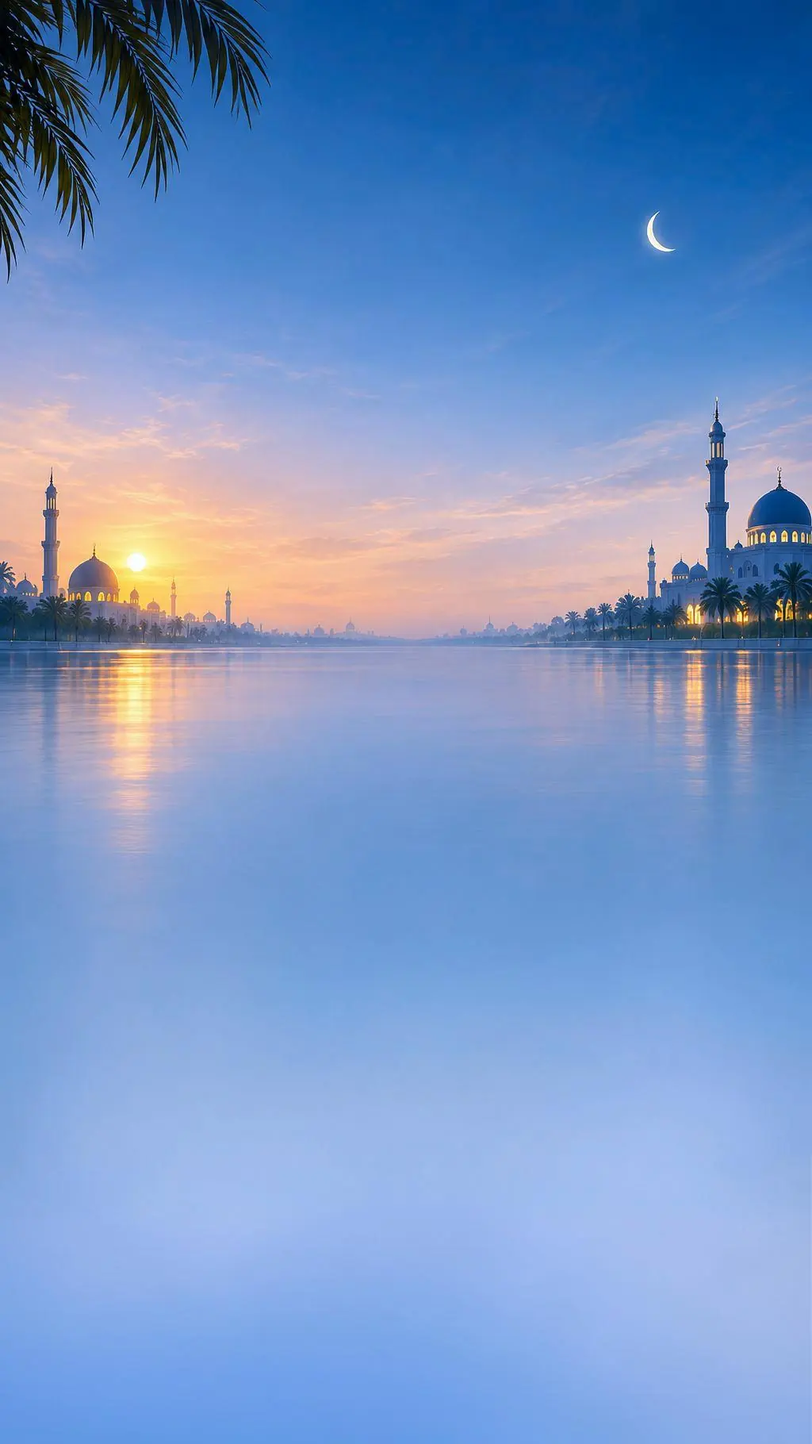
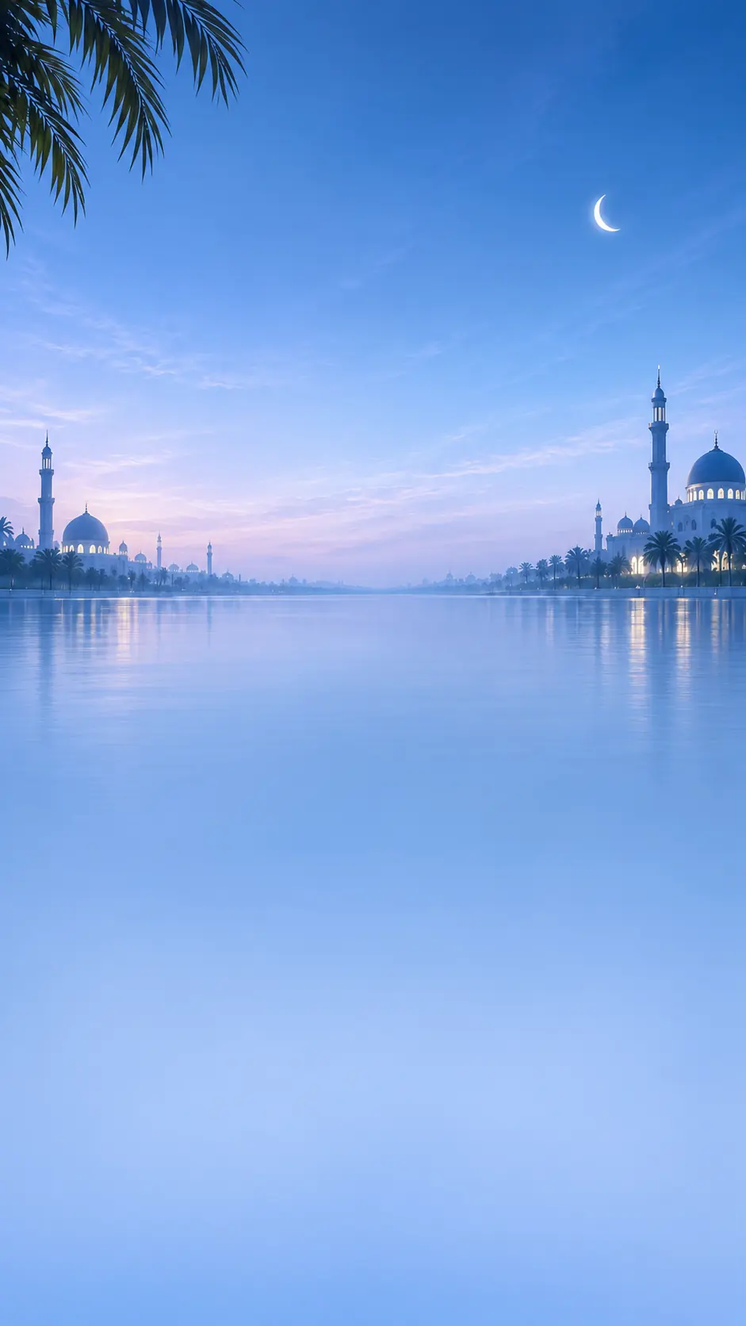
Masbaha: the lake-and-mosques scene in every theme
Dusk for light (replaces the sunset), night for dark and golden for
sepia (images/masbaha-scene-{light,dark,sepia}.webp, about 40 KB each,
precached). The dotted texture is turned off over the scenes.

diff --git a/sw.js b/sw.js
@@ -1,4 +1,4 @@
-const CACHE_NAME = "zad-muslim-v145"; // v145: masbaha — ring fills clockwise; the dhikr in a gold cartouche (drawn to size) with previous / next arrows, swipe and a favourites bookmark (favourites first in the picker); frosted patterned disc in the ring; light theme on a lake-and-mosques scene (images/masbaha-scene-light.webp); tasbih mark and ornament on the title; leaf icon for power saving; the virtue title as a tab on the card; v144: masbaha redesign — the dhikr shown in full above the counter (tap to change), a 33-bead misbaha ring with the imam bead and rounds, the whole counter area counts a tap, labelled actions (undo, target, reset, power saving), a target sheet (3 / 7 / 10 / 33 / 99 / 100 / 1000 or any number), the virtue with its source on its own line, keyboard counting and screen-reader announcements, settings regrouped (statistics most-said first, folded); undo also corrects the weekly stats (DhikrStats.untap); v143: masbaha — power-saving mode: the exit ring appears under the finger only on a held press (grows, turns red), a held or exiting press no longer counts; the virtue card sits higher above the bottom edge; top bar and toast kept 14 px below the notch / status bar; v142: masbaha — light, dark and sepia themes (follows the app theme, selector in settings), dhikr picker as a searchable grouped sheet like the other menus, 8 more adhkar with their virtue and source, settings restyled like the other pages; v141: audio — saved mark is a floppy disk, shown on saved surahs too (was «محفوظ» text there); v140: audio — a saved recitation opens from «المصاحف المحفوظة» at its surah list, saved reciters listed first with a small download-done mark; v139: home — shorter prayer times card (201 → 165 px: lower arch, mosque gap and chip padding trimmed); v138: app icon — navy version: gold arch, lantern and open Quran under a blue sky with a mosque (all icon sizes, maskable on solid navy, full-bleed apple-touch-icon); v136: new light app icon — gold arch, lantern and open Quran on a sky background (icons/icon-192.png, icon_512.png, icon_1024.png, icon-512-maskable.png, new icons/apple-touch-icon.png: full-bleed for iOS); v135: home — continue-reading card redesigned on an arch, lantern and Quran picture per theme (night blue, sky, honey; images/quran-hero-{dark,light,sepia}[-ltr].webp), no arrow button (the whole card opens the mushaf), the home page no longer pinch-zooms on touch screens; v134: home — greeting header removed (prayer card at the top), shorter Quran card, one light sweep shared by both cards, clearer sepia bottom bar, Quran-and-lantern picture on the continue-reading card (images/quran-hero-*.webp); v133: home — prayer times card redesigned as an arched night scene with a mosque (images/prayer-scene*.webp: night for dark themes, day for light, golden hour for sepia); v132: full-mushaf download — card on the player under the selectors, short surahs first, a progress bar per surah, overall progress by size; v131: audio — «تحميل المصحف كاملاً»: a whole recitation saved for offline listening (js/audio-offline.js, cache quran-audio-offline-v1, never trimmed); v130: adhkar — no page pinch-zoom on touch screens again (pinching the dhikr card still resizes its text); v129: audio seek bar back to its thin 5 px look; v128: accessibility — 44 px tap areas on the mushaf, text mushaf, takrar, audio and adhkar controls (no visual change), tappable divs reachable by keyboard and screen readers (js/tap-a11y.js), visible keyboard focus (css/a11y.css), names for unnamed buttons, pinch zoom re-enabled on adhkar; v127: Quran text integrity — the text mushaf is laid out from the app's own verified text and page map (js/quran-text-source.js, data/quran-pages.json): fetched text is shown only when its letters match ayah by ayah, and the page reads with no connection; search/tafsir show remote text as text; tafsir opens offline; data/quran.json checksum-gated in CI; v126: offline — sql.js bundled (js/vendor/, the mushaf no longer needs a CDN), played/bundled audio really cached and served with byte ranges (seeking + iOS offline), precache in parallel batches, tafsir books + bundled audio in «download all», every page registers the SW and shows an offline notice (js/net-status.js), pages cached once regardless of ?query; v125: audio — «المصحف الجديد» (Minshawi) served per surah from mp3quran (GitHub release tracks often timed out) and listed after the murattal; new reciter محمد عبادة; reciter photos as album art (images/reciters/, also on the lock screen and the island, default art as fallback); 217 tracks that silently played another reciter (mp3quran redirects missing files to Minshawi) and 10 cut-off files hidden via `missing`; v124: ثبات — ورد القرآن journeys (daily pages, opens the mushaf at the page, khatma progress, 4-week calendar, make-up for a missed day), sprouts as growth (7 stages, milestone track with the plant of each milestone), «تجاوزت هذه اللحظة» after the ten minutes, new high-quality covers (images/thabat/covers: 1200px banners + 256px thumbnails, new artwork first); surah names shown in the UI font without the Uthmani sukun «ۡ» or the wasla (Tajawal has no glyph for either: they showed as boxes) in ثبات and the mushaf recitation messages; v123: ثبات — long journey names no longer widen the page (the whole page slid sideways on phones), counters in Western digits (Tajawal draws «٠» as a diamond), banner text readable in every theme, new journeys count hours/minutes, hours shown when a milestone is under two days away, library shows 4 then «عرض الكل»; v122: «ثبات» — private journeys of repentance and steadfastness (pages/thabat.html, js/thabat.js, js/thabat-content.js, images/thabat/), card on the home page; v121: azkar — «فضل الذكر» under each dhikr instead of takhreej/grading, taller card + smaller ring, A-/A+ zoom buttons, counts kept for the day with per-dhikr reset and "reset all", prev/next disabled at the ends; v120: azkar grading label shows the strongest ruling (حسن/صحيح), weak fadail ones «يؤخذ بالضعيف في الفضائل»; continuous player survives a host reload (refresh re-shows the framed page, back walks the visited pages instead of sticking on the player); book pages (Nawawi, Qudsi, Hisn, Duaa) menus, player and labels follow the app language (hb_* keys); v119: hadith encyclopedia — 75 corrupted characters repaired in the six books, empty entries hidden, Prophet's words / chain styled, Nawawi & Qudsi open their own pages; v118: بستان الدعاء rebuilt from «الدعاء من الكتاب والسنة» on the book design (assets/duaa-book.json, author's takhreej); honorific ligatures spelled out in hisn/azkar notes; v117: azkar — source, takhreej and grading for every dhikr (azkar.json, salah.json, sleeping-zikr.json) shown under the text; v116: حصن المسلم on the new book design (pages/hisn.html + assets/hisn-matn.json: author's takhreej for all 267, repeat counters, official per-chapter/per-dhikr audio); v115: الأربعون القدسية page (pages/qudsi.html, reviewed text + grading); Nawawi page split into shared css/hadith-book.css + js/hadith-book.js; v114: Nawawi filter chips and share-card audio toggle use SVG icons (no emoji-range characters); v113: Nawawi audio player — compact card, collapsible to a pill; v112: share-card videos can carry a recitation track (Nawawi hadith audio), text timed to it; v111: hadith encyclopedia — corrected An-Nawawi Forty text and takhreej (assets/hadith/nawawi40.json); v110: Nawawi page — corrected takhreej + wording (assets/hadith/nawawi40-matn.json), Prophet's words highlighted, per-hadith recitation player (repeat, auto-next, speed); v109: dedicated An-Nawawi Forty page (pages/nawawi.html: memorization mode, favourites, image/text sharing), prayer cards drop the "next" badge, share card back press no longer closes the modal underneath; v108: home prayer cards (five prayers, upcoming highlighted), sepia secondary text readable; v107: form controls inherit the app font (css/fonts.css), azkar page zoom off again; v106: notifications — 30-day push schedule (Play/TWA has no periodic sync), Play-app guidance when notifications are blocked; v105: audit fixes — Asr (Hanafi/standard) setting, pinch-zoom re-enabled on all pages, quran-text search escaping + API text rendered as text; v104: weekly dhikr stats card (js/dhikr-stats.js: dated history of masbaha/azkar/Quran counters, shared via ShareCard); v103: hadith image cards + silent video export for all share cards (hadith, hisn, duaa, azkar); v102: duaa/dhikr image cards (js/share-card.js) on hisn, duaa and azkar; v101: qibla corrects magnetic→true north (js/wmm.js, WMM2025) and reads the top edge, not the camera, in the 2D compass; v100: all pages load Tajawal + Amiri from bundled fonts via css/fonts.css (no Google Fonts); v99: azkar.html loads Amiri from the bundled fonts/Amiri.ttf (was Google-Fonts-only, fell back to a system font); v98: video maker self-heals a stale cached script (multi-picture switch did nothing with old video-maker.js); v97: video maker multi-picture slideshow (pan/zoom per picture, crossfades on ayah changes); v96: new dark-theme background (images/Background-dark.webp, now used by index.html too); v95: audio island drag-to-dismiss (drop on the bottom ✕ to stop and hide the floating player); v94: video maker "✦ Popular" quick-pick sheet (js/popular-ayat.js); v93: video maker exports a regular fast-start MP4 (MediaRecorder fragmented MP4 showed ~3 s in galleries/WhatsApp); v92: video maker redesign (numbered step cards, searchable surah/reciter sheets, steppers, switches, full-screen preview, Scheherazade canvas font, share caption); v91: ayah video maker (pages/video-maker.html — canvas + MediaRecorder status clips); v90: offline download runs in the page via CacheStorage (fixes wrapped PWA/TWA where the SW message path failed), keeps sw.js as single source for assets + cache name; v89: radio station selector card restored below the player (no pill), page padding trimmed so it still fits without scrolling; v88: radio player fits one screen (art scales with height, stations pill), tap art to pause motion, station title no longer overwritten by late i18n; v87: Sharjah radio via audio-only AAC (itworkscdn) with HLS fallbacks, per-station stream candidates, itworkscdn streams bypass the SW; v86: radio.html UX overhaul (categories, auto-reconnect with host fallback, prev/next, sleep timer, continuous host) + 10 wrong station streams fixed; live radio streams bypass the SW; v85: continuous audio — pages open in a frame over audio.html with a floating island player (js/continuous-player.js), setting in audio.html + index.html; v84: audio.html UX (no silent skip on load/offline, inline error + retry, buffering ring, rich searchable lists, lock-screen seek) + 40 dead audio links fixed/removed in audio-01.json; v83: hadith-viewer RTL swipe (finger → right = next chapter, like duaa/hisn), hadith search ignores invisible RLM marks, viewer shows full result count + "show more", hadith.html scrolls results into view; v82: qibla tilt-compensated heading (back-camera bearing when upright), ignore relative-only orientation, calibration "done" no longer exits the page (BackClose.swap); v81: takrar unit labels strip the basmala + quote the opening, readable selected rows; v80: takrar settings sheet, first-open preferences, ayah-opening unit labels, language button; v79: takrar redesign (player dock, 46 reciters, infinite range loop) + new i18n keys; v78: let GitHub release audio bypass the SW (range requests via SW broke seeking); v77: Minshawi new murattal tracks moved to GitHub release + clean track names; v76: harden offline modal — reply timeouts + graceful recovery when an old SW still controls after update; v75: drop ?v= cache-buster from audio pages, strip dead CSS; v74: unified offline-download.js controller; v73: precache quran-v2 + audio/radio JSONs, hadith books on-demand, ZAD_CACHE_ALL handler
+const CACHE_NAME = "zad-muslim-v145"; // v145: masbaha — ring fills clockwise; the dhikr in a gold cartouche (drawn to size) with previous / next arrows, swipe and a favourites bookmark (favourites first in the picker); frosted patterned disc in the ring; the lake-and-mosques scene in every theme (images/masbaha-scene-{light,dark,sepia}.webp: dusk, night, golden); tasbih mark and ornament on the title; leaf icon for power saving; the virtue title as a tab on the card; v144: masbaha redesign — the dhikr shown in full above the counter (tap to change), a 33-bead misbaha ring with the imam bead and rounds, the whole counter area counts a tap, labelled actions (undo, target, reset, power saving), a target sheet (3 / 7 / 10 / 33 / 99 / 100 / 1000 or any number), the virtue with its source on its own line, keyboard counting and screen-reader announcements, settings regrouped (statistics most-said first, folded); undo also corrects the weekly stats (DhikrStats.untap); v143: masbaha — power-saving mode: the exit ring appears under the finger only on a held press (grows, turns red), a held or exiting press no longer counts; the virtue card sits higher above the bottom edge; top bar and toast kept 14 px below the notch / status bar; v142: masbaha — light, dark and sepia themes (follows the app theme, selector in settings), dhikr picker as a searchable grouped sheet like the other menus, 8 more adhkar with their virtue and source, settings restyled like the other pages; v141: audio — saved mark is a floppy disk, shown on saved surahs too (was «محفوظ» text there); v140: audio — a saved recitation opens from «المصاحف المحفوظة» at its surah list, saved reciters listed first with a small download-done mark; v139: home — shorter prayer times card (201 → 165 px: lower arch, mosque gap and chip padding trimmed); v138: app icon — navy version: gold arch, lantern and open Quran under a blue sky with a mosque (all icon sizes, maskable on solid navy, full-bleed apple-touch-icon); v136: new light app icon — gold arch, lantern and open Quran on a sky background (icons/icon-192.png, icon_512.png, icon_1024.png, icon-512-maskable.png, new icons/apple-touch-icon.png: full-bleed for iOS); v135: home — continue-reading card redesigned on an arch, lantern and Quran picture per theme (night blue, sky, honey; images/quran-hero-{dark,light,sepia}[-ltr].webp), no arrow button (the whole card opens the mushaf), the home page no longer pinch-zooms on touch screens; v134: home — greeting header removed (prayer card at the top), shorter Quran card, one light sweep shared by both cards, clearer sepia bottom bar, Quran-and-lantern picture on the continue-reading card (images/quran-hero-*.webp); v133: home — prayer times card redesigned as an arched night scene with a mosque (images/prayer-scene*.webp: night for dark themes, day for light, golden hour for sepia); v132: full-mushaf download — card on the player under the selectors, short surahs first, a progress bar per surah, overall progress by size; v131: audio — «تحميل المصحف كاملاً»: a whole recitation saved for offline listening (js/audio-offline.js, cache quran-audio-offline-v1, never trimmed); v130: adhkar — no page pinch-zoom on touch screens again (pinching the dhikr card still resizes its text); v129: audio seek bar back to its thin 5 px look; v128: accessibility — 44 px tap areas on the mushaf, text mushaf, takrar, audio and adhkar controls (no visual change), tappable divs reachable by keyboard and screen readers (js/tap-a11y.js), visible keyboard focus (css/a11y.css), names for unnamed buttons, pinch zoom re-enabled on adhkar; v127: Quran text integrity — the text mushaf is laid out from the app's own verified text and page map (js/quran-text-source.js, data/quran-pages.json): fetched text is shown only when its letters match ayah by ayah, and the page reads with no connection; search/tafsir show remote text as text; tafsir opens offline; data/quran.json checksum-gated in CI; v126: offline — sql.js bundled (js/vendor/, the mushaf no longer needs a CDN), played/bundled audio really cached and served with byte ranges (seeking + iOS offline), precache in parallel batches, tafsir books + bundled audio in «download all», every page registers the SW and shows an offline notice (js/net-status.js), pages cached once regardless of ?query; v125: audio — «المصحف الجديد» (Minshawi) served per surah from mp3quran (GitHub release tracks often timed out) and listed after the murattal; new reciter محمد عبادة; reciter photos as album art (images/reciters/, also on the lock screen and the island, default art as fallback); 217 tracks that silently played another reciter (mp3quran redirects missing files to Minshawi) and 10 cut-off files hidden via `missing`; v124: ثبات — ورد القرآن journeys (daily pages, opens the mushaf at the page, khatma progress, 4-week calendar, make-up for a missed day), sprouts as growth (7 stages, milestone track with the plant of each milestone), «تجاوزت هذه اللحظة» after the ten minutes, new high-quality covers (images/thabat/covers: 1200px banners + 256px thumbnails, new artwork first); surah names shown in the UI font without the Uthmani sukun «ۡ» or the wasla (Tajawal has no glyph for either: they showed as boxes) in ثبات and the mushaf recitation messages; v123: ثبات — long journey names no longer widen the page (the whole page slid sideways on phones), counters in Western digits (Tajawal draws «٠» as a diamond), banner text readable in every theme, new journeys count hours/minutes, hours shown when a milestone is under two days away, library shows 4 then «عرض الكل»; v122: «ثبات» — private journeys of repentance and steadfastness (pages/thabat.html, js/thabat.js, js/thabat-content.js, images/thabat/), card on the home page; v121: azkar — «فضل الذكر» under each dhikr instead of takhreej/grading, taller card + smaller ring, A-/A+ zoom buttons, counts kept for the day with per-dhikr reset and "reset all", prev/next disabled at the ends; v120: azkar grading label shows the strongest ruling (حسن/صحيح), weak fadail ones «يؤخذ بالضعيف في الفضائل»; continuous player survives a host reload (refresh re-shows the framed page, back walks the visited pages instead of sticking on the player); book pages (Nawawi, Qudsi, Hisn, Duaa) menus, player and labels follow the app language (hb_* keys); v119: hadith encyclopedia — 75 corrupted characters repaired in the six books, empty entries hidden, Prophet's words / chain styled, Nawawi & Qudsi open their own pages; v118: بستان الدعاء rebuilt from «الدعاء من الكتاب والسنة» on the book design (assets/duaa-book.json, author's takhreej); honorific ligatures spelled out in hisn/azkar notes; v117: azkar — source, takhreej and grading for every dhikr (azkar.json, salah.json, sleeping-zikr.json) shown under the text; v116: حصن المسلم on the new book design (pages/hisn.html + assets/hisn-matn.json: author's takhreej for all 267, repeat counters, official per-chapter/per-dhikr audio); v115: الأربعون القدسية page (pages/qudsi.html, reviewed text + grading); Nawawi page split into shared css/hadith-book.css + js/hadith-book.js; v114: Nawawi filter chips and share-card audio toggle use SVG icons (no emoji-range characters); v113: Nawawi audio player — compact card, collapsible to a pill; v112: share-card videos can carry a recitation track (Nawawi hadith audio), text timed to it; v111: hadith encyclopedia — corrected An-Nawawi Forty text and takhreej (assets/hadith/nawawi40.json); v110: Nawawi page — corrected takhreej + wording (assets/hadith/nawawi40-matn.json), Prophet's words highlighted, per-hadith recitation player (repeat, auto-next, speed); v109: dedicated An-Nawawi Forty page (pages/nawawi.html: memorization mode, favourites, image/text sharing), prayer cards drop the "next" badge, share card back press no longer closes the modal underneath; v108: home prayer cards (five prayers, upcoming highlighted), sepia secondary text readable; v107: form controls inherit the app font (css/fonts.css), azkar page zoom off again; v106: notifications — 30-day push schedule (Play/TWA has no periodic sync), Play-app guidance when notifications are blocked; v105: audit fixes — Asr (Hanafi/standard) setting, pinch-zoom re-enabled on all pages, quran-text search escaping + API text rendered as text; v104: weekly dhikr stats card (js/dhikr-stats.js: dated history of masbaha/azkar/Quran counters, shared via ShareCard); v103: hadith image cards + silent video export for all share cards (hadith, hisn, duaa, azkar); v102: duaa/dhikr image cards (js/share-card.js) on hisn, duaa and azkar; v101: qibla corrects magnetic→true north (js/wmm.js, WMM2025) and reads the top edge, not the camera, in the 2D compass; v100: all pages load Tajawal + Amiri from bundled fonts via css/fonts.css (no Google Fonts); v99: azkar.html loads Amiri from the bundled fonts/Amiri.ttf (was Google-Fonts-only, fell back to a system font); v98: video maker self-heals a stale cached script (multi-picture switch did nothing with old video-maker.js); v97: video maker multi-picture slideshow (pan/zoom per picture, crossfades on ayah changes); v96: new dark-theme background (images/Background-dark.webp, now used by index.html too); v95: audio island drag-to-dismiss (drop on the bottom ✕ to stop and hide the floating player); v94: video maker "✦ Popular" quick-pick sheet (js/popular-ayat.js); v93: video maker exports a regular fast-start MP4 (MediaRecorder fragmented MP4 showed ~3 s in galleries/WhatsApp); v92: video maker redesign (numbered step cards, searchable surah/reciter sheets, steppers, switches, full-screen preview, Scheherazade canvas font, share caption); v91: ayah video maker (pages/video-maker.html — canvas + MediaRecorder status clips); v90: offline download runs in the page via CacheStorage (fixes wrapped PWA/TWA where the SW message path failed), keeps sw.js as single source for assets + cache name; v89: radio station selector card restored below the player (no pill), page padding trimmed so it still fits without scrolling; v88: radio player fits one screen (art scales with height, stations pill), tap art to pause motion, station title no longer overwritten by late i18n; v87: Sharjah radio via audio-only AAC (itworkscdn) with HLS fallbacks, per-station stream candidates, itworkscdn streams bypass the SW; v86: radio.html UX overhaul (categories, auto-reconnect with host fallback, prev/next, sleep timer, continuous host) + 10 wrong station streams fixed; live radio streams bypass the SW; v85: continuous audio — pages open in a frame over audio.html with a floating island player (js/continuous-player.js), setting in audio.html + index.html; v84: audio.html UX (no silent skip on load/offline, inline error + retry, buffering ring, rich searchable lists, lock-screen seek) + 40 dead audio links fixed/removed in audio-01.json; v83: hadith-viewer RTL swipe (finger → right = next chapter, like duaa/hisn), hadith search ignores invisible RLM marks, viewer shows full result count + "show more", hadith.html scrolls results into view; v82: qibla tilt-compensated heading (back-camera bearing when upright), ignore relative-only orientation, calibration "done" no longer exits the page (BackClose.swap); v81: takrar unit labels strip the basmala + quote the opening, readable selected rows; v80: takrar settings sheet, first-open preferences, ayah-opening unit labels, language button; v79: takrar redesign (player dock, 46 reciters, infinite range loop) + new i18n keys; v78: let GitHub release audio bypass the SW (range requests via SW broke seeking); v77: Minshawi new murattal tracks moved to GitHub release + clean track names; v76: harden offline modal — reply timeouts + graceful recovery when an old SW still controls after update; v75: drop ?v= cache-buster from audio pages, strip dead CSS; v74: unified offline-download.js controller; v73: precache quran-v2 + audio/radio JSONs, hadith books on-demand, ZAD_CACHE_ALL handler
 const AUDIO_CACHE = "audio-cache-v1";
 const PUSH_CTX_CACHE = "push-ctx-v1"; // schedule context written by js/notifications.js
 
@@ -238,6 +238,8 @@ const STATIC_ASSETS = [
   "./images/quran-hero-sepia.webp",
   "./images/quran-hero-sepia-ltr.webp",
   "./images/masbaha-scene-light.webp",
+  "./images/masbaha-scene-dark.webp",
+  "./images/masbaha-scene-sepia.webp",
   "./images/background-sepia.webp",
   "./images/album.png",
 

diff --git a/pages/masbaha.html b/pages/masbaha.html
@@ -67,7 +67,7 @@
     /* dark (default) — the app's night background, emerald + sky accents */
     :root, [data-theme="dark"] {
         --bg-0:#020617;
-        --bg-image:url('../images/Background-dark.webp'); --bg-overlay:rgba(2,6,23,.55);
+        --bg-image:url('../images/masbaha-scene-dark.webp'); --bg-overlay:rgba(2,6,23,.12);
         --primary:#10b981; --primary-bright:#34d399; --primary-glow:rgba(16,185,129,.5);
         --accent2:#38bdf8; --accent2-bright:#7dd3fc; --accent2-glow:rgba(56,189,248,.42);
         --text-main:#f1f5f9; --text-muted:#9fb0c0;
@@ -99,7 +99,7 @@
     }
     [data-theme="sepia"] {
         --bg-0:#f3e7d1;
-        --bg-image:url('../images/background-sepia.webp'); --bg-overlay:rgba(180,140,100,.16);
+        --bg-image:url('../images/masbaha-scene-sepia.webp'); --bg-overlay:rgba(250,240,220,.06);
         --primary:#B8860B; --primary-bright:#9a6f08; --primary-glow:rgba(184,134,11,.35);
         --accent2:#8a5a14; --accent2-bright:#7a4f12; --accent2-glow:rgba(184,134,11,.25);
         --text-main:#3D2B1F; --text-muted:#7a6046;
@@ -119,11 +119,12 @@
     body {
         margin: 0; height: 100dvh; overflow: hidden;
         font-family: 'Tajawal', sans-serif; color: var(--text-main);
-        background: linear-gradient(var(--bg-overlay), var(--bg-overlay)), var(--bg-image) center/cover no-repeat, var(--bg-0);
+        background: linear-gradient(var(--bg-overlay), var(--bg-overlay)), var(--bg-image) center top / cover no-repeat, var(--bg-0);
         display: flex; justify-content: center; user-select: none; position: relative;
     }
     /* dotted texture, faded toward edges */
     body::before {
+        display: none;   /* the scenes bring their own texture (kept for a custom background) */
         content: ''; position: fixed; inset: 0; z-index: 0; pointer-events: none; opacity: .55;
         background-image: radial-gradient(var(--dots) 1px, transparent 1px);
         background-size: 22px 22px;
